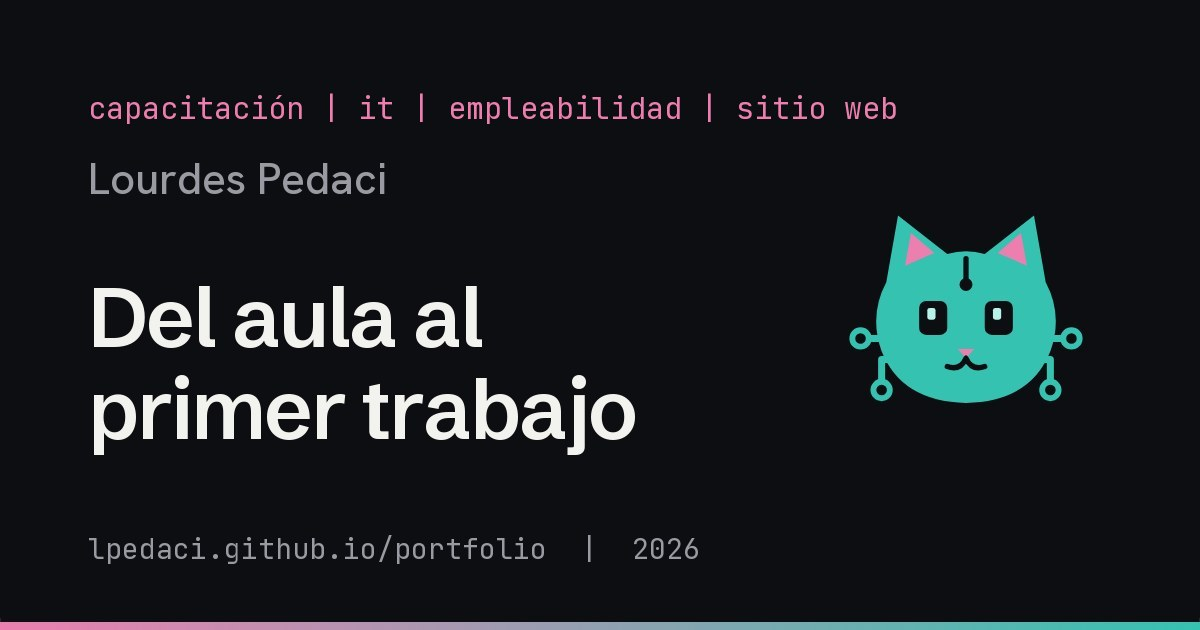
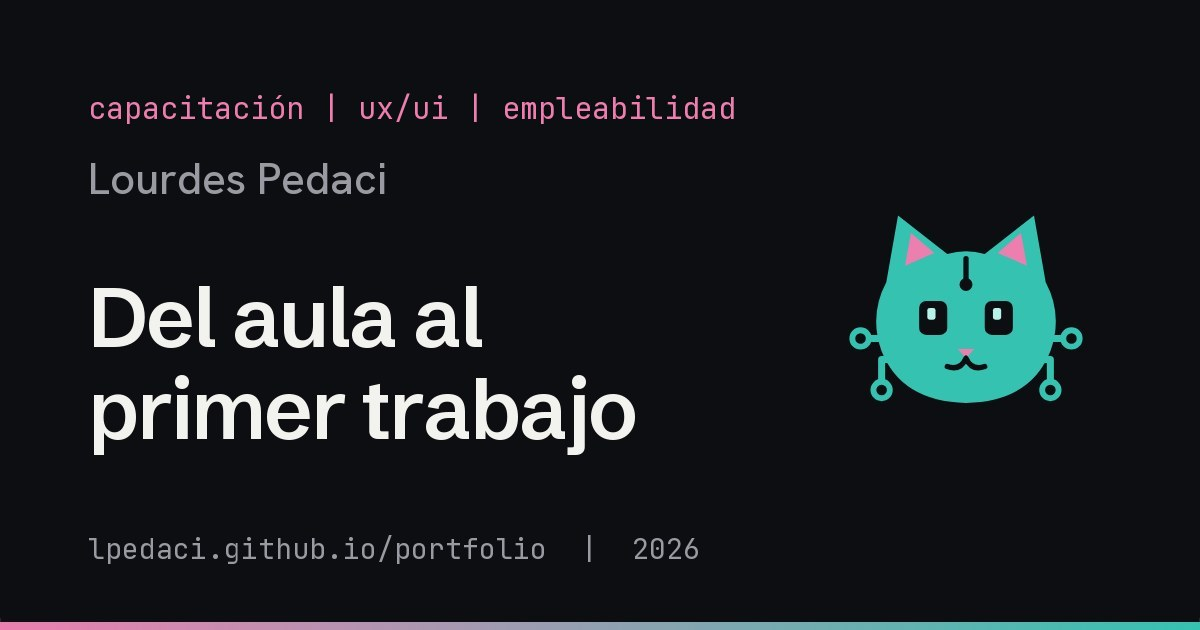
fix(casos): etiquetas de la card de primer empleo (ux/ui, empleabilidad, capacitación)

Changed region(s): [[0.2775, 0.1508, 0.74, 0.2111]]

diff --git a/casos/rediseno-portfolio/index.html b/casos/rediseno-portfolio/index.html
@@ -33,9 +33,9 @@
   <meta name="twitter:image:alt" content="Auditoría y rediseño de mi portfolio versión 2.0: proyecto del portfolio de Lourdes Pedaci. Ícono de un gatito tecnológico.">
   <link rel="preload" href="../../assets/fonts/hanken-grotesk-latin.woff2" as="font" type="font/woff2" crossorigin>
   <link rel="preload" href="../../assets/fonts/schibsted-grotesk-latin.woff2" as="font" type="font/woff2" crossorigin>
-  <link rel="stylesheet" href="../../assets/css/fonts.css?v=202610131815">
-  <link rel="stylesheet" href="../../assets/css/icons.css?v=202610131815">
-  <link rel="stylesheet" href="../../assets/css/styles.css?v=202610131815">
+  <link rel="stylesheet" href="../../assets/css/fonts.css?v=202610131823">
+  <link rel="stylesheet" href="../../assets/css/icons.css?v=202610131823">
+  <link rel="stylesheet" href="../../assets/css/styles.css?v=202610131823">
 </head>
 <body data-slug="rediseno-portfolio">
   <a class="skip" href="#main" data-i18n="skip">Ir al contenido</a>
@@ -70,10 +70,10 @@
       <a class="foot__top" href="#main"><span data-i18n="backTop">Volver arriba</span><i class="ph ph-arrow-up" aria-hidden="true"></i></a>
     </div>
   </footer>
-  <script src="../../assets/js/i18n.js?v=202610131815"></script>
-  <script src="../../assets/js/projects.js?v=202610131815"></script>
-  <script src="../../assets/js/cases.js?v=202610131815"></script>
-  <script src="../../assets/js/case.js?v=202610131815"></script>
-  <script src="../../assets/js/nav.js?v=202610131815"></script>
+  <script src="../../assets/js/i18n.js?v=202610131823"></script>
+  <script src="../../assets/js/projects.js?v=202610131823"></script>
+  <script src="../../assets/js/cases.js?v=202610131823"></script>
+  <script src="../../assets/js/case.js?v=202610131823"></script>
+  <script src="../../assets/js/nav.js?v=202610131823"></script>
 </body>
 </html>

diff --git a/casos/sistemas-operativos/index.html b/casos/sistemas-operativos/index.html
@@ -33,9 +33,9 @@
   <meta name="twitter:image:alt" content="Sistemas Operativos: almacenamiento y seteo: proyecto del portfolio de Lourdes Pedaci. Ícono de un gatito tecnológico.">
   <link rel="preload" href="../../assets/fonts/hanken-grotesk-latin.woff2" as="font" type="font/woff2" crossorigin>
   <link rel="preload" href="../../assets/fonts/schibsted-grotesk-latin.woff2" as="font" type="font/woff2" crossorigin>
-  <link rel="stylesheet" href="../../assets/css/fonts.css?v=202610131815">
-  <link rel="stylesheet" href="../../assets/css/icons.css?v=202610131815">
-  <link rel="stylesheet" href="../../assets/css/styles.css?v=202610131815">
+  <link rel="stylesheet" href="../../assets/css/fonts.css?v=202610131823">
+  <link rel="stylesheet" href="../../assets/css/icons.css?v=202610131823">
+  <link rel="stylesheet" href="../../assets/css/styles.css?v=202610131823">
 </head>
 <body data-slug="sistemas-operativos">
   <a class="skip" href="#main" data-i18n="skip">Ir al contenido</a>
@@ -70,10 +70,10 @@
       <a class="foot__top" href="#main"><span data-i18n="backTop">Volver arriba</span><i class="ph ph-arrow-up" aria-hidden="true"></i></a>
     </div>
   </footer>
-  <script src="../../assets/js/i18n.js?v=202610131815"></script>
-  <script src="../../assets/js/projects.js?v=202610131815"></script>
-  <script src="../../assets/js/cases.js?v=202610131815"></script>
-  <script src="../../assets/js/case.js?v=202610131815"></script>
-  <script src="../../assets/js/nav.js?v=202610131815"></script>
+  <script src="../../assets/js/i18n.js?v=202610131823"></script>
+  <script src="../../assets/js/projects.js?v=202610131823"></script>
+  <script src="../../assets/js/cases.js?v=202610131823"></script>
+  <script src="../../assets/js/case.js?v=202610131823"></script>
+  <script src="../../assets/js/nav.js?v=202610131823"></script>
 </body>
 </html>

diff --git a/casos/riesgos-digitales/index.html b/casos/riesgos-digitales/index.html
@@ -33,9 +33,9 @@
   <meta name="twitter:image:alt" content="Programa participativo de riesgos digitales: proyecto del portfolio de Lourdes Pedaci. Ícono de un gatito tecnológico.">
   <link rel="preload" href="../../assets/fonts/hanken-grotesk-latin.woff2" as="font" type="font/woff2" crossorigin>
   <link rel="preload" href="../../assets/fonts/schibsted-grotesk-latin.woff2" as="font" type="font/woff2" crossorigin>
-  <link rel="stylesheet" href="../../assets/css/fonts.css?v=202610131815">
-  <link rel="stylesheet" href="../../assets/css/icons.css?v=202610131815">
-  <link rel="stylesheet" href="../../assets/css/styles.css?v=202610131815">
+  <link rel="stylesheet" href="../../assets/css/fonts.css?v=202610131823">
+  <link rel="stylesheet" href="../../assets/css/icons.css?v=202610131823">
+  <link rel="stylesheet" href="../../assets/css/styles.css?v=202610131823">
 </head>
 <body data-slug="riesgos-digitales">
   <a class="skip" href="#main" data-i18n="skip">Ir al contenido</a>
@@ -70,10 +70,10 @@
       <a class="foot__top" href="#main"><span data-i18n="backTop">Volver arriba</span><i class="ph ph-arrow-up" aria-hidden="true"></i></a>
     </div>
   </footer>
-  <script src="../../assets/js/i18n.js?v=202610131815"></script>
-  <script src="../../assets/js/projects.js?v=202610131815"></script>
-  <script src="../../assets/js/cases.js?v=202610131815"></script>
-  <script src="../../assets/js/case.js?v=202610131815"></script>
-  <script src="../../assets/js/nav.js?v=202610131815"></script>
+  <script src="../../assets/js/i18n.js?v=202610131823"></script>
+  <script src="../../assets/js/projects.js?v=202610131823"></script>
+  <script src="../../assets/js/cases.js?v=202610131823"></script>
+  <script src="../../assets/js/case.js?v=202610131823"></script>
+  <script src="../../assets/js/nav.js?v=202610131823"></script>
 </body>
 </html>

diff --git a/casos/infraestructura-it/index.html b/casos/infraestructura-it/index.html
@@ -33,9 +33,9 @@
   <meta name="twitter:image:alt" content="Estandarización de infraestructura IT: proyecto del portfolio de Lourdes Pedaci. Ícono de un gatito tecnológico.">
   <link rel="preload" href="../../assets/fonts/hanken-grotesk-latin.woff2" as="font" type="font/woff2" crossorigin>
   <link rel="preload" href="../../assets/fonts/schibsted-grotesk-latin.woff2" as="font" type="font/woff2" crossorigin>
-  <link rel="stylesheet" href="../../assets/css/fonts.css?v=202610131815">
-  <link rel="stylesheet" href="../../assets/css/icons.css?v=202610131815">
-  <link rel="stylesheet" href="../../assets/css/styles.css?v=202610131815">
+  <link rel="stylesheet" href="../../assets/css/fonts.css?v=202610131823">
+  <link rel="stylesheet" href="../../assets/css/icons.css?v=202610131823">
+  <link rel="stylesheet" href="../../assets/css/styles.css?v=202610131823">
 </head>
 <body data-slug="infraestructura-it">
   <a class="skip" href="#main" data-i18n="skip">Ir al contenido</a>
@@ -70,10 +70,10 @@
       <a class="foot__top" href="#main"><span data-i18n="backTop">Volver arriba</span><i class="ph ph-arrow-up" aria-hidden="true"></i></a>
     </div>
   </footer>
-  <script src="../../assets/js/i18n.js?v=202610131815"></script>
-  <script src="../../assets/js/projects.js?v=202610131815"></script>
-  <script src="../../assets/js/cases.js?v=202610131815"></script>
-  <script src="../../assets/js/case.js?v=202610131815"></script>
-  <script src="../../assets/js/nav.js?v=202610131815"></script>
+  <script src="../../assets/js/i18n.js?v=202610131823"></script>
+  <script src="../../assets/js/projects.js?v=202610131823"></script>
+  <script src="../../assets/js/cases.js?v=202610131823"></script>
+  <script src="../../assets/js/case.js?v=202610131823"></script>
+  <script src="../../assets/js/nav.js?v=202610131823"></script>
 </body>
 </html>

diff --git a/casos/auditoria-turnos/index.html b/casos/auditoria-turnos/index.html
@@ -33,9 +33,9 @@
   <meta name="twitter:image:alt" content="Auditoría UX/UI de un portal de turnos: proyecto del portfolio de Lourdes Pedaci. Ícono de un gatito tecnológico.">
   <link rel="preload" href="../../assets/fonts/hanken-grotesk-latin.woff2" as="font" type="font/woff2" crossorigin>
   <link rel="preload" href="../../assets/fonts/schibsted-grotesk-latin.woff2" as="font" type="font/woff2" crossorigin>
-  <link rel="stylesheet" href="../../assets/css/fonts.css?v=202610131815">
-  <link rel="stylesheet" href="../../assets/css/icons.css?v=202610131815">
-  <link rel="stylesheet" href="../../assets/css/styles.css?v=202610131815">
+  <link rel="stylesheet" href="../../assets/css/fonts.css?v=202610131823">
+  <link rel="stylesheet" href="../../assets/css/icons.css?v=202610131823">
+  <link rel="stylesheet" href="../../assets/css/styles.css?v=202610131823">
 </head>
 <body data-slug="auditoria-turnos">
   <a class="skip" href="#main" data-i18n="skip">Ir al contenido</a>
@@ -70,10 +70,10 @@
       <a class="foot__top" href="#main"><span data-i18n="backTop">Volver arriba</span><i class="ph ph-arrow-up" aria-hidden="true"></i></a>
     </div>
   </footer>
-  <script src="../../assets/js/i18n.js?v=202610131815"></script>
-  <script src="../../assets/js/projects.js?v=202610131815"></script>
-  <script src="../../assets/js/cases.js?v=202610131815"></script>
-  <script src="../../assets/js/case.js?v=202610131815"></script>
-  <script src="../../assets/js/nav.js?v=202610131815"></script>
+  <script src="../../assets/js/i18n.js?v=202610131823"></script>
+  <script src="../../assets/js/projects.js?v=202610131823"></script>
+  <script src="../../assets/js/cases.js?v=202610131823"></script>
+  <script src="../../assets/js/case.js?v=202610131823"></script>
+  <script src="../../assets/js/nav.js?v=202610131823"></script>
 </body>
 </html>

diff --git a/casos/docente-era-digital/index.html b/casos/docente-era-digital/index.html
@@ -33,9 +33,9 @@
   <meta name="twitter:image:alt" content="El rol docente en la era digital: proyecto del portfolio de Lourdes Pedaci. Ícono de un gatito tecnológico.">
   <link rel="preload" href="../../assets/fonts/hanken-grotesk-latin.woff2" as="font" type="font/woff2" crossorigin>
   <link rel="preload" href="../../assets/fonts/schibsted-grotesk-latin.woff2" as="font" type="font/woff2" crossorigin>
-  <link rel="stylesheet" href="../../assets/css/fonts.css?v=202610131815">
-  <link rel="stylesheet" href="../../assets/css/icons.css?v=202610131815">
-  <link rel="stylesheet" href="../../assets/css/styles.css?v=202610131815">
+  <link rel="stylesheet" href="../../assets/css/fonts.css?v=202610131823">
+  <link rel="stylesheet" href="../../assets/css/icons.css?v=202610131823">
+  <link rel="stylesheet" href="../../assets/css/styles.css?v=202610131823">
 </head>
 <body data-slug="docente-era-digital">
   <a class="skip" href="#main" data-i18n="skip">Ir al contenido</a>
@@ -70,10 +70,10 @@
       <a class="foot__top" href="#main"><span data-i18n="backTop">Volver arriba</span><i class="ph ph-arrow-up" aria-hidden="true"></i></a>
     </div>
   </footer>
-  <script src="../../assets/js/i18n.js?v=202610131815"></script>
-  <script src="../../assets/js/projects.js?v=202610131815"></script>
-  <script src="../../assets/js/cases.js?v=202610131815"></script>
-  <script src="../../assets/js/case.js?v=202610131815"></script>
-  <script src="../../assets/js/nav.js?v=202610131815"></script>
+  <script src="../../assets/js/i18n.js?v=202610131823"></script>
+  <script src="../../assets/js/projects.js?v=202610131823"></script>
+  <script src="../../assets/js/cases.js?v=202610131823"></script>
+  <script src="../../assets/js/case.js?v=202610131823"></script>
+  <script src="../../assets/js/nav.js?v=202610131823"></script>
 </body>
 </html>

diff --git a/casos/erp-motion-graphics/index.html b/casos/erp-motion-graphics/index.html
@@ -33,9 +33,9 @@
   <meta name="twitter:image:alt" content="Sistemas ERP en motion graphics: proyecto del portfolio de Lourdes Pedaci. Ícono de un gatito tecnológico.">
   <link rel="preload" href="../../assets/fonts/hanken-grotesk-latin.woff2" as="font" type="font/woff2" crossorigin>
   <link rel="preload" href="../../assets/fonts/schibsted-grotesk-latin.woff2" as="font" type="font/woff2" crossorigin>
-  <link rel="stylesheet" href="../../assets/css/fonts.css?v=202610131815">
-  <link rel="stylesheet" href="../../assets/css/icons.css?v=202610131815">
-  <link rel="stylesheet" href="../../assets/css/styles.css?v=202610131815">
+  <link rel="stylesheet" href="../../assets/css/fonts.css?v=202610131823">
+  <link rel="stylesheet" href="../../assets/css/icons.css?v=202610131823">
+  <link rel="stylesheet" href="../../assets/css/styles.css?v=202610131823">
 </head>
 <body data-slug="erp-motion-graphics">
   <a class="skip" href="#main" data-i18n="skip">Ir al contenido</a>
@@ -70,10 +70,10 @@
       <a class="foot__top" href="#main"><span data-i18n="backTop">Volver arriba</span><i class="ph ph-arrow-up" aria-hidden="true"></i></a>
     </div>
   </footer>
-  <script src="../../assets/js/i18n.js?v=202610131815"></script>
-  <script src="../../assets/js/projects.js?v=202610131815"></script>
-  <script src="../../assets/js/cases.js?v=202610131815"></script>
-  <script src="../../assets/js/case.js?v=202610131815"></script>
-  <script src="../../assets/js/nav.js?v=202610131815"></script>
+  <script src="../../assets/js/i18n.js?v=202610131823"></script>
+  <script src="../../assets/js/projects.js?v=202610131823"></script>
+  <script src="../../assets/js/cases.js?v=202610131823"></script>
+  <script src="../../assets/js/case.js?v=202610131823"></script>
+  <script src="../../assets/js/nav.js?v=202610131823"></script>
 </body>
 </html>

diff --git a/casos/proyectos-aplicados/index.html b/casos/proyectos-aplicados/index.html
@@ -33,9 +33,9 @@
   <meta name="twitter:image:alt" content="Programa de proyectos aplicados: proyecto del portfolio de Lourdes Pedaci. Ícono de un gatito tecnológico.">
   <link rel="preload" href="../../assets/fonts/hanken-grotesk-latin.woff2" as="font" type="font/woff2" crossorigin>
   <link rel="preload" href="../../assets/fonts/schibsted-grotesk-latin.woff2" as="font" type="font/woff2" crossorigin>
-  <link rel="stylesheet" href="../../assets/css/fonts.css?v=202610131815">
-  <link rel="stylesheet" href="../../assets/css/icons.css?v=202610131815">
-  <link rel="stylesheet" href="../../assets/css/styles.css?v=202610131815">
+  <link rel="stylesheet" href="../../assets/css/fonts.css?v=202610131823">
+  <link rel="stylesheet" href="../../assets/css/icons.css?v=202610131823">
+  <link rel="stylesheet" href="../../assets/css/styles.css?v=202610131823">
 </head>
 <body data-slug="proyectos-aplicados">
   <a class="skip" href="#main" data-i18n="skip">Ir al contenido</a>
@@ -70,10 +70,10 @@
       <a class="foot__top" href="#main"><span data-i18n="backTop">Volver arriba</span><i class="ph ph-arrow-up" aria-hidden="true"></i></a>
     </div>
   </footer>
-  <script src="../../assets/js/i18n.js?v=202610131815"></script>
-  <script src="../../assets/js/projects.js?v=202610131815"></script>
-  <script src="../../assets/js/cases.js?v=202610131815"></script>
-  <script src="../../assets/js/case.js?v=202610131815"></script>
-  <script src="../../assets/js/nav.js?v=202610131815"></script>
+  <script src="../../assets/js/i18n.js?v=202610131823"></script>
+  <script src="../../assets/js/projects.js?v=202610131823"></script>
+  <script src="../../assets/js/cases.js?v=202610131823"></script>
+  <script src="../../assets/js/case.js?v=202610131823"></script>
+  <script src="../../assets/js/nav.js?v=202610131823"></script>
 </body>
 </html>

diff --git a/casos/expo-smart-cities/index.html b/casos/expo-smart-cities/index.html
@@ -33,9 +33,9 @@
   <meta name="twitter:image:alt" content="Apertura, Expo Smart Cities 2024: proyecto del portfolio de Lourdes Pedaci. Ícono de un gatito tecnológico.">
   <link rel="preload" href="../../assets/fonts/hanken-grotesk-latin.woff2" as="font" type="font/woff2" crossorigin>
   <link rel="preload" href="../../assets/fonts/schibsted-grotesk-latin.woff2" as="font" type="font/woff2" crossorigin>
-  <link rel="stylesheet" href="../../assets/css/fonts.css?v=202610131815">
-  <link rel="stylesheet" href="../../assets/css/icons.css?v=202610131815">
-  <link rel="stylesheet" href="../../assets/css/styles.css?v=202610131815">
+  <link rel="stylesheet" href="../../assets/css/fonts.css?v=202610131823">
+  <link rel="stylesheet" href="../../assets/css/icons.css?v=202610131823">
+  <link rel="stylesheet" href="../../assets/css/styles.css?v=202610131823">
 </head>
 <body data-slug="expo-smart-cities">
   <a class="skip" href="#main" data-i18n="skip">Ir al contenido</a>
@@ -70,10 +70,10 @@
       <a class="foot__top" href="#main"><span data-i18n="backTop">Volver arriba</span><i class="ph ph-arrow-up" aria-hidden="true"></i></a>
     </div>
   </footer>
-  <script src="../../assets/js/i18n.js?v=202610131815"></script>
-  <script src="../../assets/js/projects.js?v=202610131815"></script>
-  <script src="../../assets/js/cases.js?v=202610131815"></script>
-  <script src="../../assets/js/case.js?v=202610131815"></script>
-  <script src="../../assets/js/nav.js?v=202610131815"></script>
+  <script src="../../assets/js/i18n.js?v=202610131823"></script>
+  <script src="../../assets/js/projects.js?v=202610131823"></script>
+  <script src="../../assets/js/cases.js?v=202610131823"></script>
+  <script src="../../assets/js/case.js?v=202610131823"></script>
+  <script src="../../assets/js/nav.js?v=202610131823"></script>
 </body>
 </html>

diff --git a/casos/the-crow/index.html b/casos/the-crow/index.html
@@ -33,9 +33,9 @@
   <meta name="twitter:image:alt" content="The Crow, según Edgar Allan Poe: proyecto del portfolio de Lourdes Pedaci. Ícono de un gatito tecnológico.">
   <link rel="preload" href="../../assets/fonts/hanken-grotesk-latin.woff2" as="font" type="font/woff2" crossorigin>
   <link rel="preload" href="../../assets/fonts/schibsted-grotesk-latin.woff2" as="font" type="font/woff2" crossorigin>
-  <link rel="stylesheet" href="../../assets/css/fonts.css?v=202610131815">
-  <link rel="stylesheet" href="../../assets/css/icons.css?v=202610131815">
-  <link rel="stylesheet" href="../../assets/css/styles.css?v=202610131815">
+  <link rel="stylesheet" href="../../assets/css/fonts.css?v=202610131823">
+  <link rel="stylesheet" href="../../assets/css/icons.css?v=202610131823">
+  <link rel="stylesheet" href="../../assets/css/styles.css?v=202610131823">
 </head>
 <body data-slug="the-crow">
   <a class="skip" href="#main" data-i18n="skip">Ir al contenido</a>
@@ -70,10 +70,10 @@
       <a class="foot__top" href="#main"><span data-i18n="backTop">Volver arriba</span><i class="ph ph-arrow-up" aria-hidden="true"></i></a>
     </div>
   </footer>
-  <script src="../../assets/js/i18n.js?v=202610131815"></script>
-  <script src="../../assets/js/projects.js?v=202610131815"></script>
-  <script src="../../assets/js/cases.js?v=202610131815"></script>
-  <script src="../../assets/js/case.js?v=202610131815"></script>
-  <script src="../../assets/js/nav.js?v=202610131815"></script>
+  <script src="../../assets/js/i18n.js?v=202610131823"></script>
+  <script src="../../assets/js/projects.js?v=202610131823"></script>
+  <script src="../../assets/js/cases.js?v=202610131823"></script>
+  <script src="../../assets/js/case.js?v=202610131823"></script>
+  <script src="../../assets/js/nav.js?v=202610131823"></script>
 </body>
 </html>

diff --git a/casos/primer-empleo/index.html b/casos/primer-empleo/index.html
@@ -33,9 +33,9 @@
   <meta name="twitter:image:alt" content="Del aula al primer trabajo: proyecto del portfolio de Lourdes Pedaci. Ícono de un gatito tecnológico.">
   <link rel="preload" href="../../assets/fonts/hanken-grotesk-latin.woff2" as="font" type="font/woff2" crossorigin>
   <link rel="preload" href="../../assets/fonts/schibsted-grotesk-latin.woff2" as="font" type="font/woff2" crossorigin>
-  <link rel="stylesheet" href="../../assets/css/fonts.css?v=202610131815">
-  <link rel="stylesheet" href="../../assets/css/icons.css?v=202610131815">
-  <link rel="stylesheet" href="../../assets/css/styles.css?v=202610131815">
+  <link rel="stylesheet" href="../../assets/css/fonts.css?v=202610131823">
+  <link rel="stylesheet" href="../../assets/css/icons.css?v=202610131823">
+  <link rel="stylesheet" href="../../assets/css/styles.css?v=202610131823">
 </head>
 <body data-slug="primer-empleo">
   <a class="skip" href="#main" data-i18n="skip">Ir al contenido</a>
@@ -70,10 +70,10 @@
       <a class="foot__top" href="#main"><span data-i18n="backTop">Volver arriba</span><i class="ph ph-arrow-up" aria-hidden="true"></i></a>
     </div>
   </footer>
-  <script src="../../assets/js/i18n.js?v=202610131815"></script>
-  <script src="../../assets/js/projects.js?v=202610131815"></script>
-  <script src="../../assets/js/cases.js?v=202610131815"></script>
-  <script src="../../assets/js/case.js?v=202610131815"></script>
-  <script src="../../assets/js/nav.js?v=202610131815"></script>
+  <script src="../../assets/js/i18n.js?v=202610131823"></script>
+  <script src="../../assets/js/projects.js?v=202610131823"></script>
+  <script src="../../assets/js/cases.js?v=202610131823"></script>
+  <script src="../../assets/js/case.js?v=202610131823"></script>
+  <script src="../../assets/js/nav.js?v=202610131823"></script>
 </body>
 </html>

diff --git a/casos/auditorias-ux/index.html b/casos/auditorias-ux/index.html
@@ -33,9 +33,9 @@
   <meta name="twitter:image:alt" content="Auditorías UX/UI: proyecto del portfolio de Lourdes Pedaci. Ícono de un gatito tecnológico.">
   <link rel="preload" href="../../assets/fonts/hanken-grotesk-latin.woff2" as="font" type="font/woff2" crossorigin>
   <link rel="preload" href="../../assets/fonts/schibsted-grotesk-latin.woff2" as="font" type="font/woff2" crossorigin>
-  <link rel="stylesheet" href="../../assets/css/fonts.css?v=202610131815">
-  <link rel="stylesheet" href="../../assets/css/icons.css?v=202610131815">
-  <link rel="stylesheet" href="../../assets/css/styles.css?v=202610131815">
+  <link rel="stylesheet" href="../../assets/css/fonts.css?v=202610131823">
+  <link rel="stylesheet" href="../../assets/css/icons.css?v=202610131823">
+  <link rel="stylesheet" href="../../assets/css/styles.css?v=202610131823">
 </head>
 <body data-slug="auditorias-ux">
   <a class="skip" href="#main" data-i18n="skip">Ir al contenido</a>
@@ -70,10 +70,10 @@
       <a class="foot__top" href="#main"><span data-i18n="backTop">Volver arriba</span><i class="ph ph-arrow-up" aria-hidden="true"></i></a>
     </div>
   </footer>
-  <script src="../../assets/js/i18n.js?v=202610131815"></script>
-  <script src="../../assets/js/projects.js?v=202610131815"></script>
-  <script src="../../assets/js/cases.js?v=202610131815"></script>
-  <script src="../../assets/js/case.js?v=202610131815"></script>
-  <script src="../../assets/js/nav.js?v=202610131815"></script>
+  <script src="../../assets/js/i18n.js?v=202610131823"></script>
+  <script src="../../assets/js/projects.js?v=202610131823"></script>
+  <script src="../../assets/js/cases.js?v=202610131823"></script>
+  <script src="../../assets/js/case.js?v=202610131823"></script>
+  <script src="../../assets/js/nav.js?v=202610131823"></script>
 </body>
 </html>
